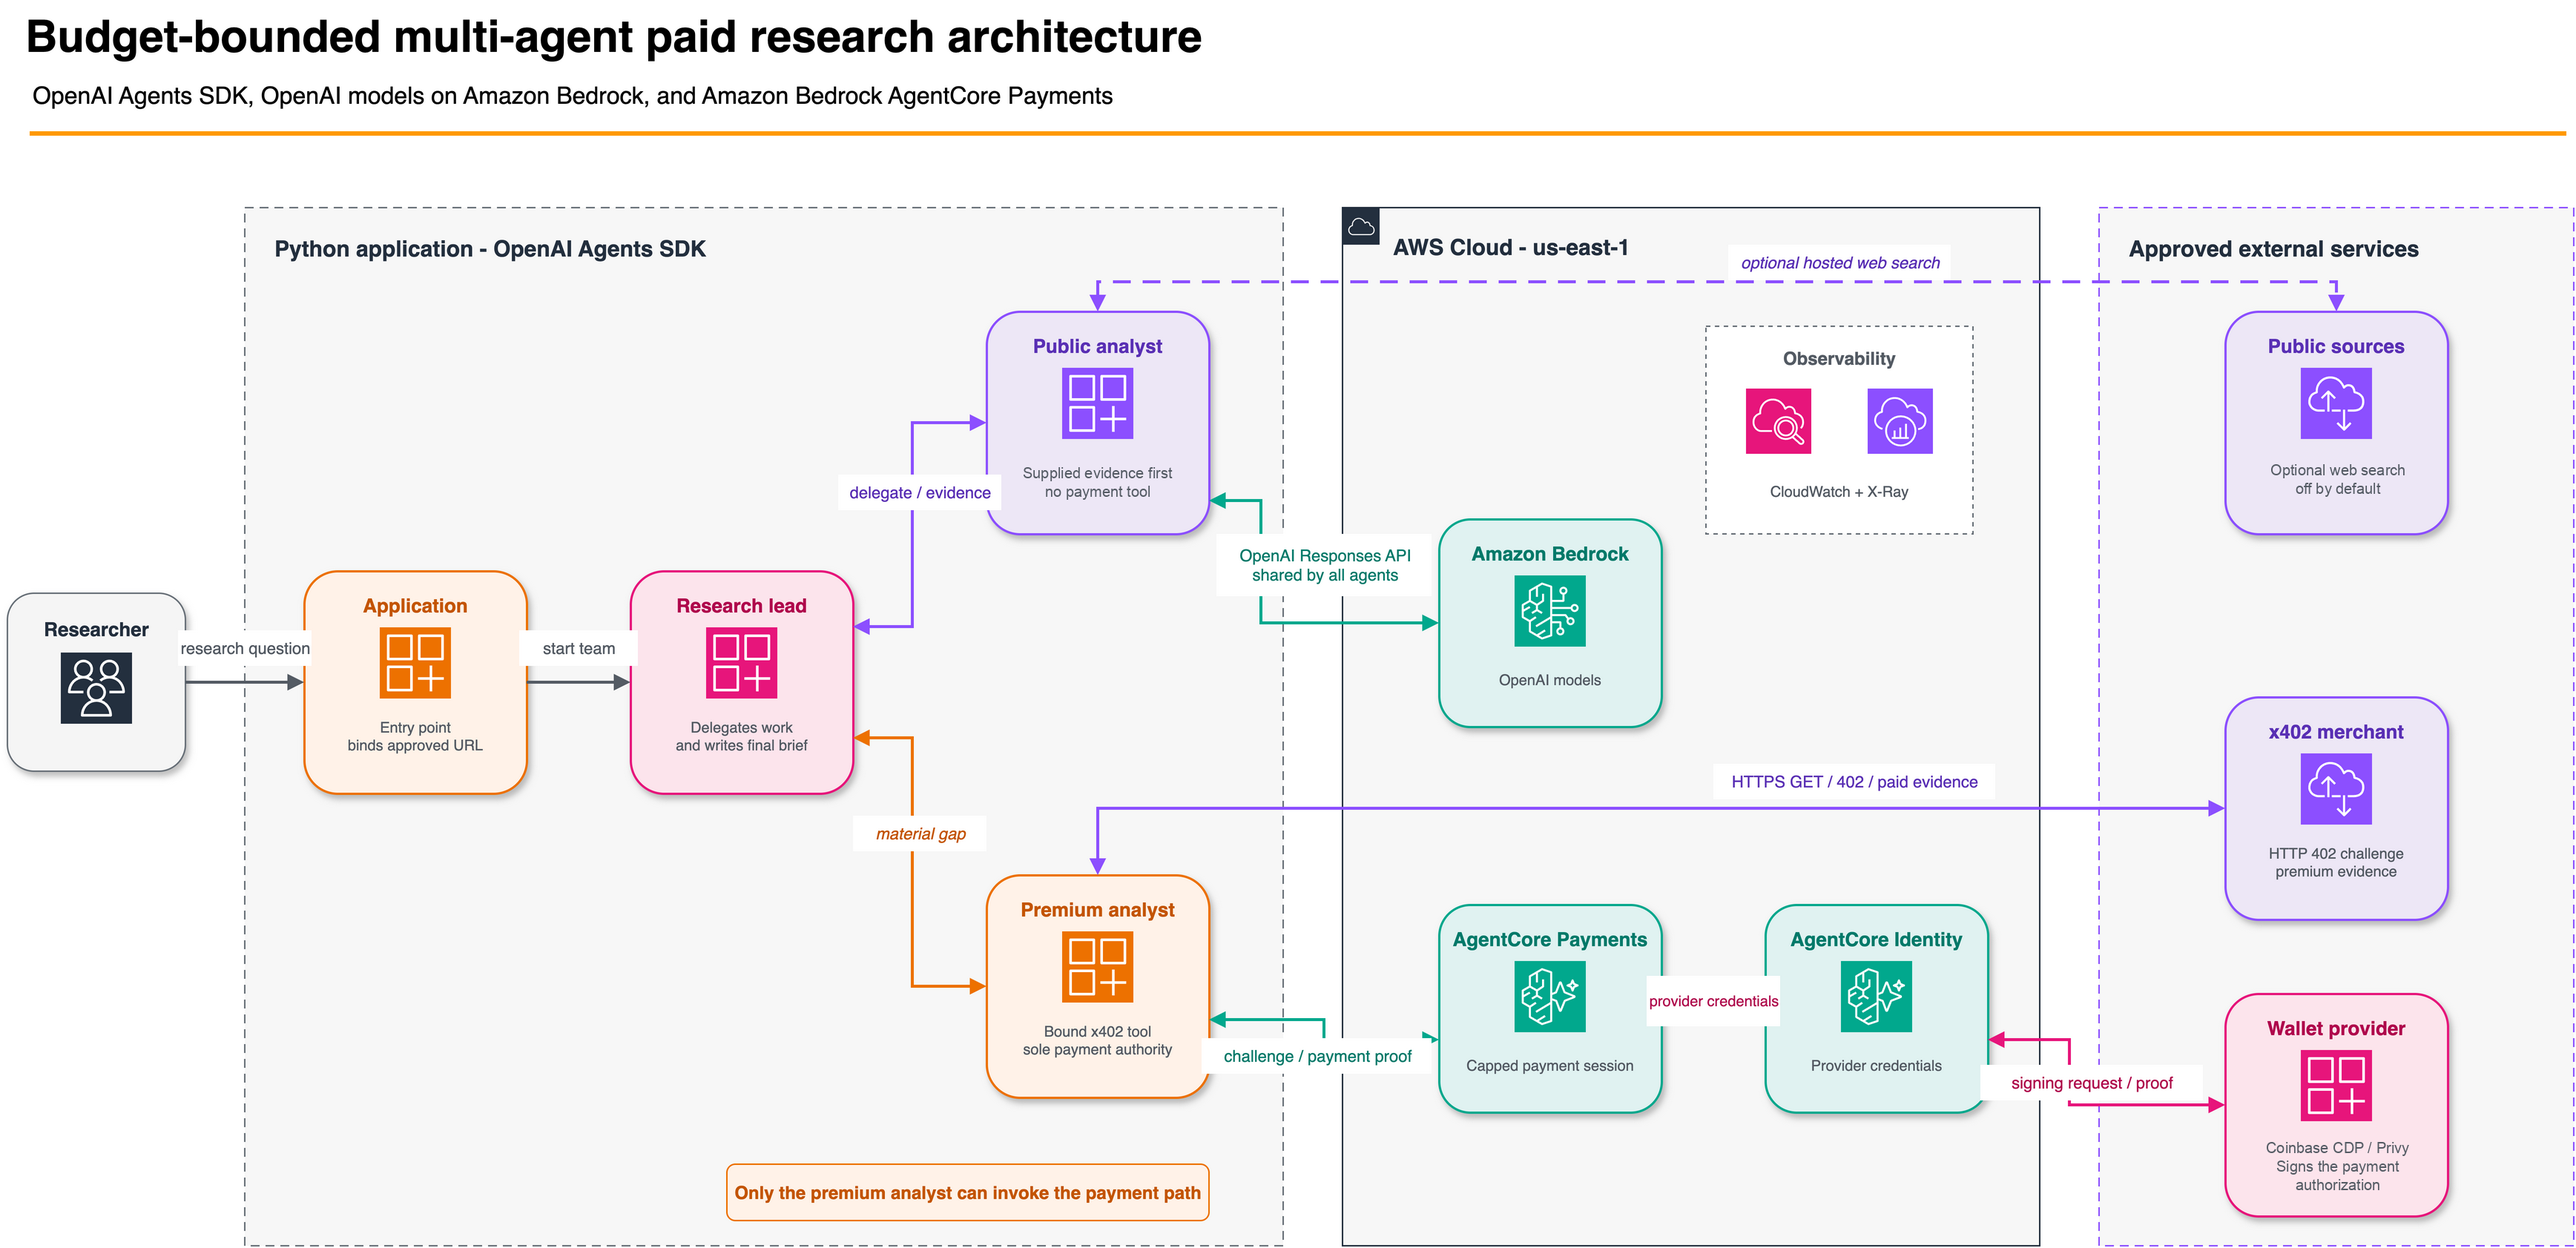
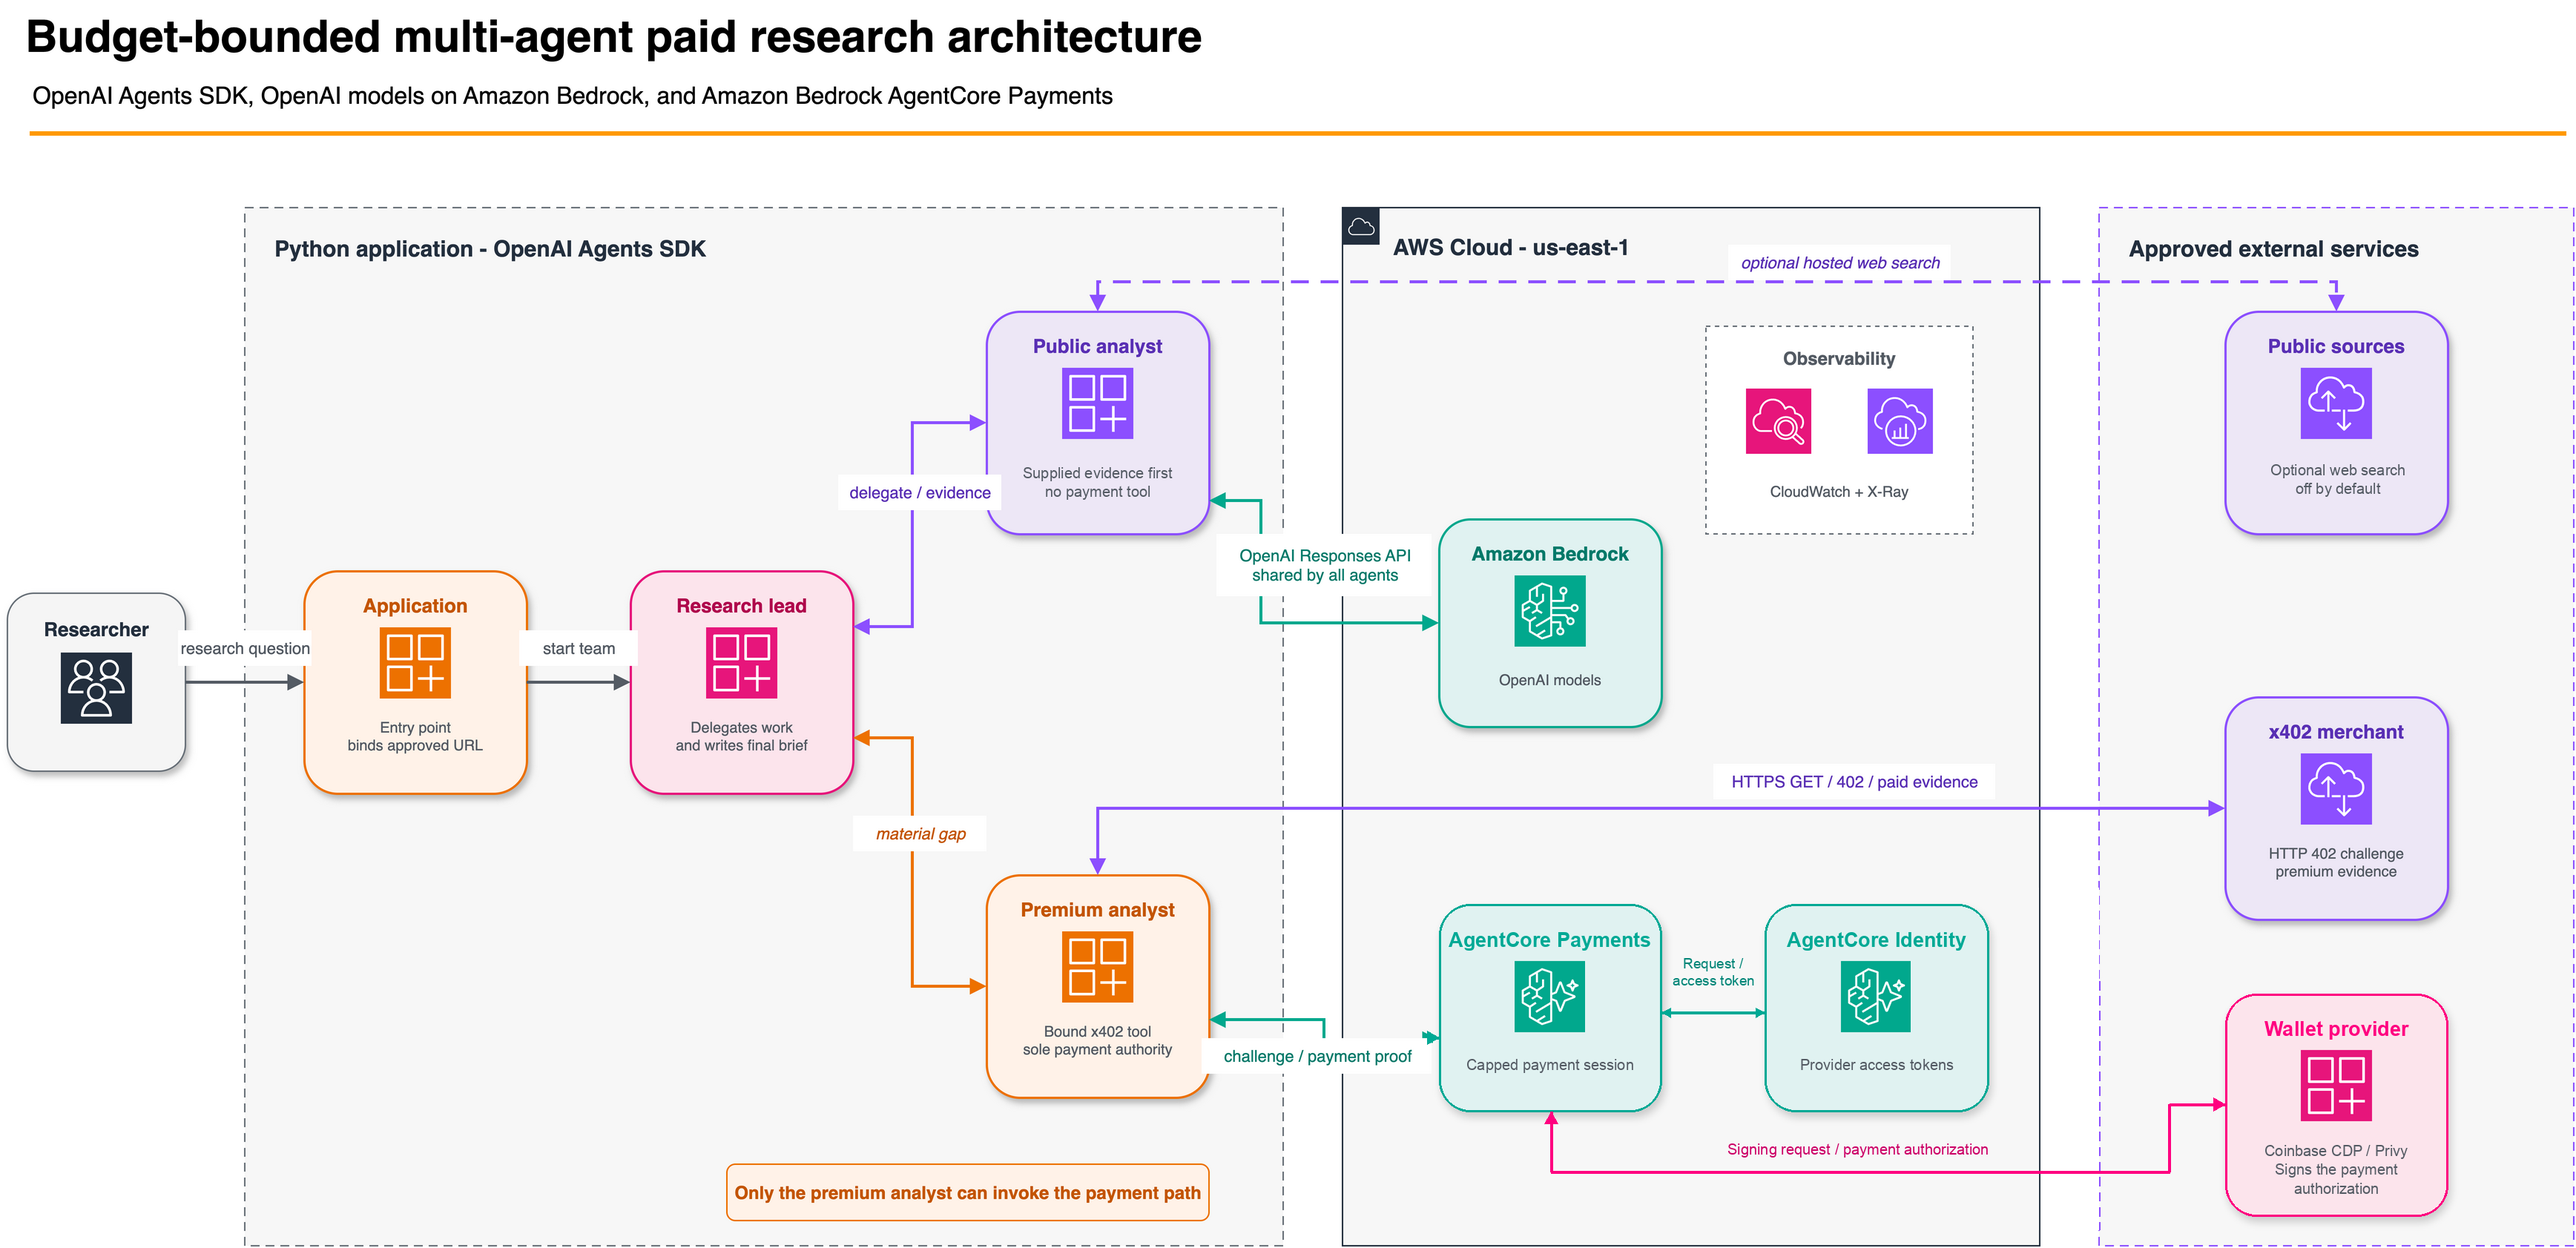
Correct payment diagram and preserve budget precision

diff --git a/01-features/08-agents-that-transact/02-use-cases/pay-for-research-with-openai-agent/create_payment_session.py b/01-features/08-agents-that-transact/02-use-cases/pay-for-research-with-openai-agent/create_payment_session.py
@@ -19,12 +19,7 @@ def parse_budget(raw: str) -> str:
         raise argparse.ArgumentTypeError("budget must be a decimal amount") from exc
     if not value.is_finite() or value <= 0:
         raise argparse.ArgumentTypeError("budget must be finite and greater than zero")
-    try:
-        if value != value.quantize(Decimal("0.000001")):
-            raise argparse.ArgumentTypeError("budget must have at most six decimal places")
-    except InvalidOperation as exc:
-        raise argparse.ArgumentTypeError("budget is too large") from exc
-    # Preserve sub-cent limits: rounding 0.001 to cents would silently create zero.
+    # Preserve the supplied precision without rounding sub-cent budgets.
     return format(value, "f")
 
 

diff --git a/01-features/08-agents-that-transact/02-use-cases/pay-for-research-with-openai-agent/README.md b/01-features/08-agents-that-transact/02-use-cases/pay-for-research-with-openai-agent/README.md
@@ -48,6 +48,9 @@ HTTP requests and exposes them as a function tool.
 
 [framework-integrations]: https://docs.aws.amazon.com/bedrock-agentcore/latest/devguide/payments-framework-integrations.html
 
+AgentCore Payments calls the wallet provider directly. It retrieves the provider
+access token from AgentCore Identity through `GetResourcePaymentToken`.
+
 ### Files
 
 - `pay_for_research.py` — configure Bedrock, build the three agents, and run research.
@@ -196,9 +199,9 @@ python create_payment_session.py --budget 0.01 --expiry-minutes 15
 export PAYMENT_SESSION_ID=<printed-session-id>
 ```
 
-Choose the maximum you are willing to spend. Budgets preserve sub-cent values
-with up to six decimal places; expiry must be 15–480 minutes. A session limits
-spending but does not fund the wallet.
+Choose the maximum you are willing to spend. The script accepts a positive,
+finite decimal budget and preserves its precision without rounding. Expiry must
+be 15–480 minutes. A session limits spending but does not fund the wallet.
 
 For the GA budget and expiry options, see
 [Create a payment session](https://docs.aws.amazon.com/bedrock-agentcore/latest/devguide/payments-create-session.html).
